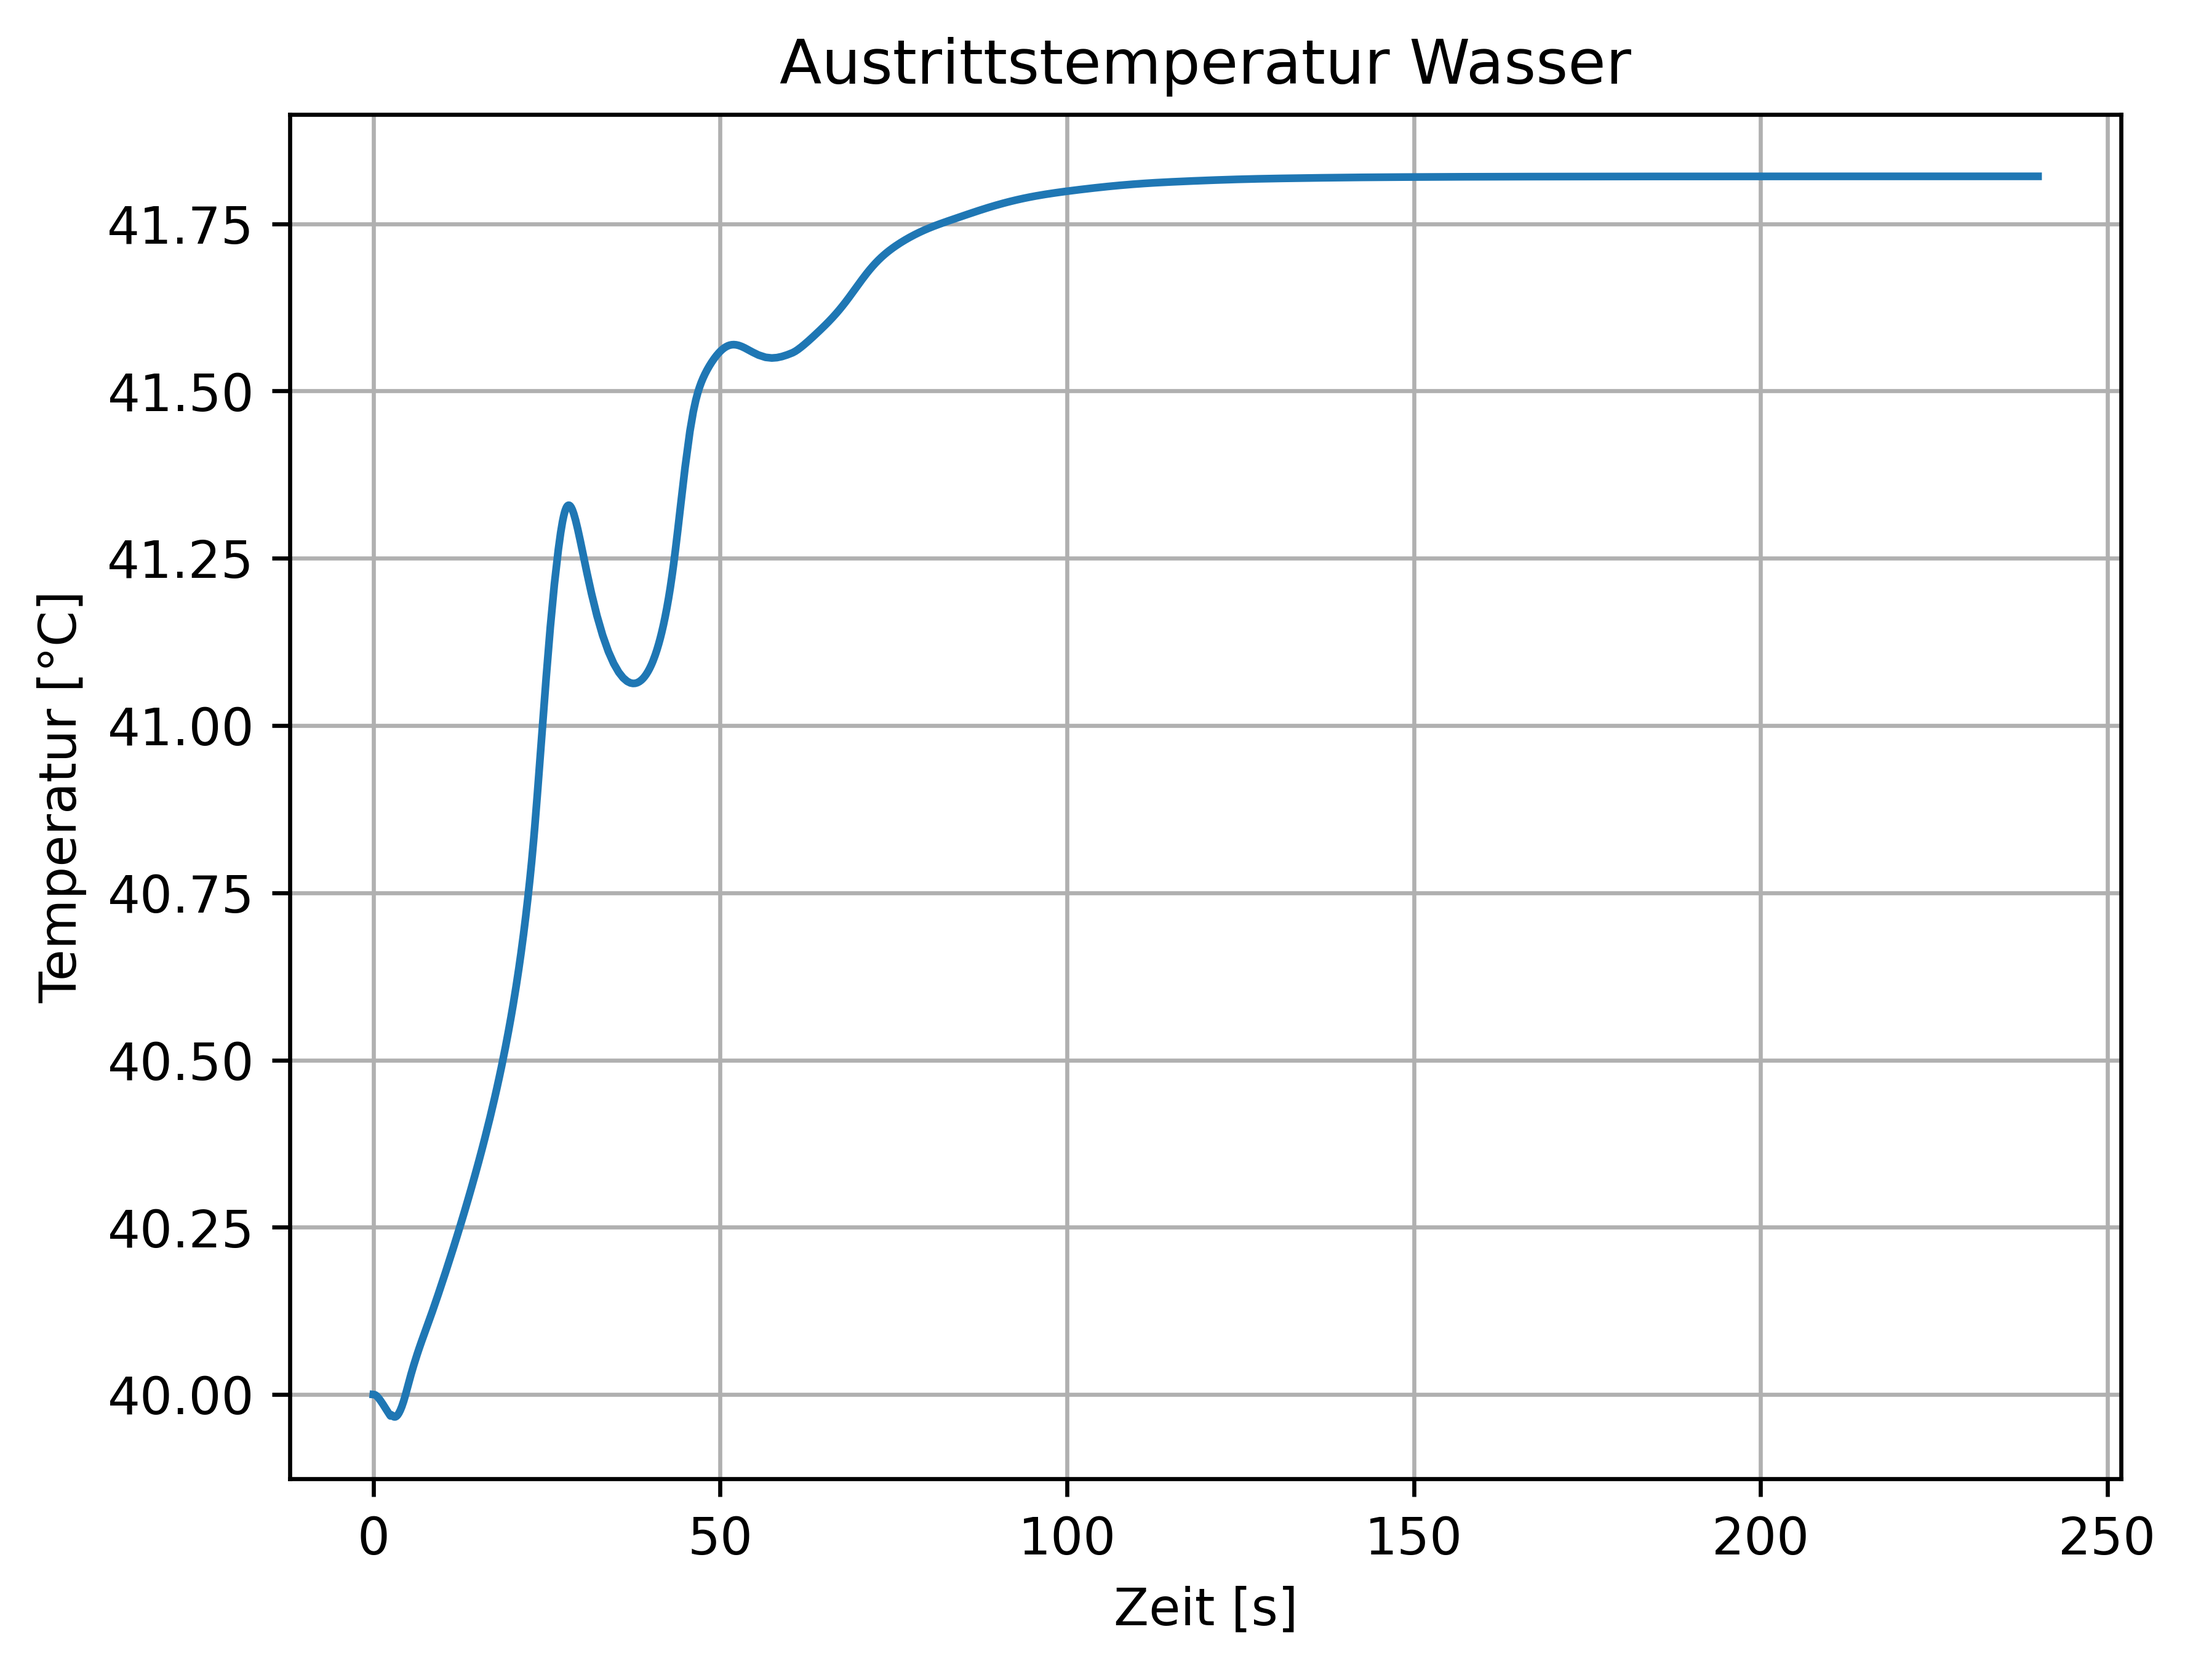
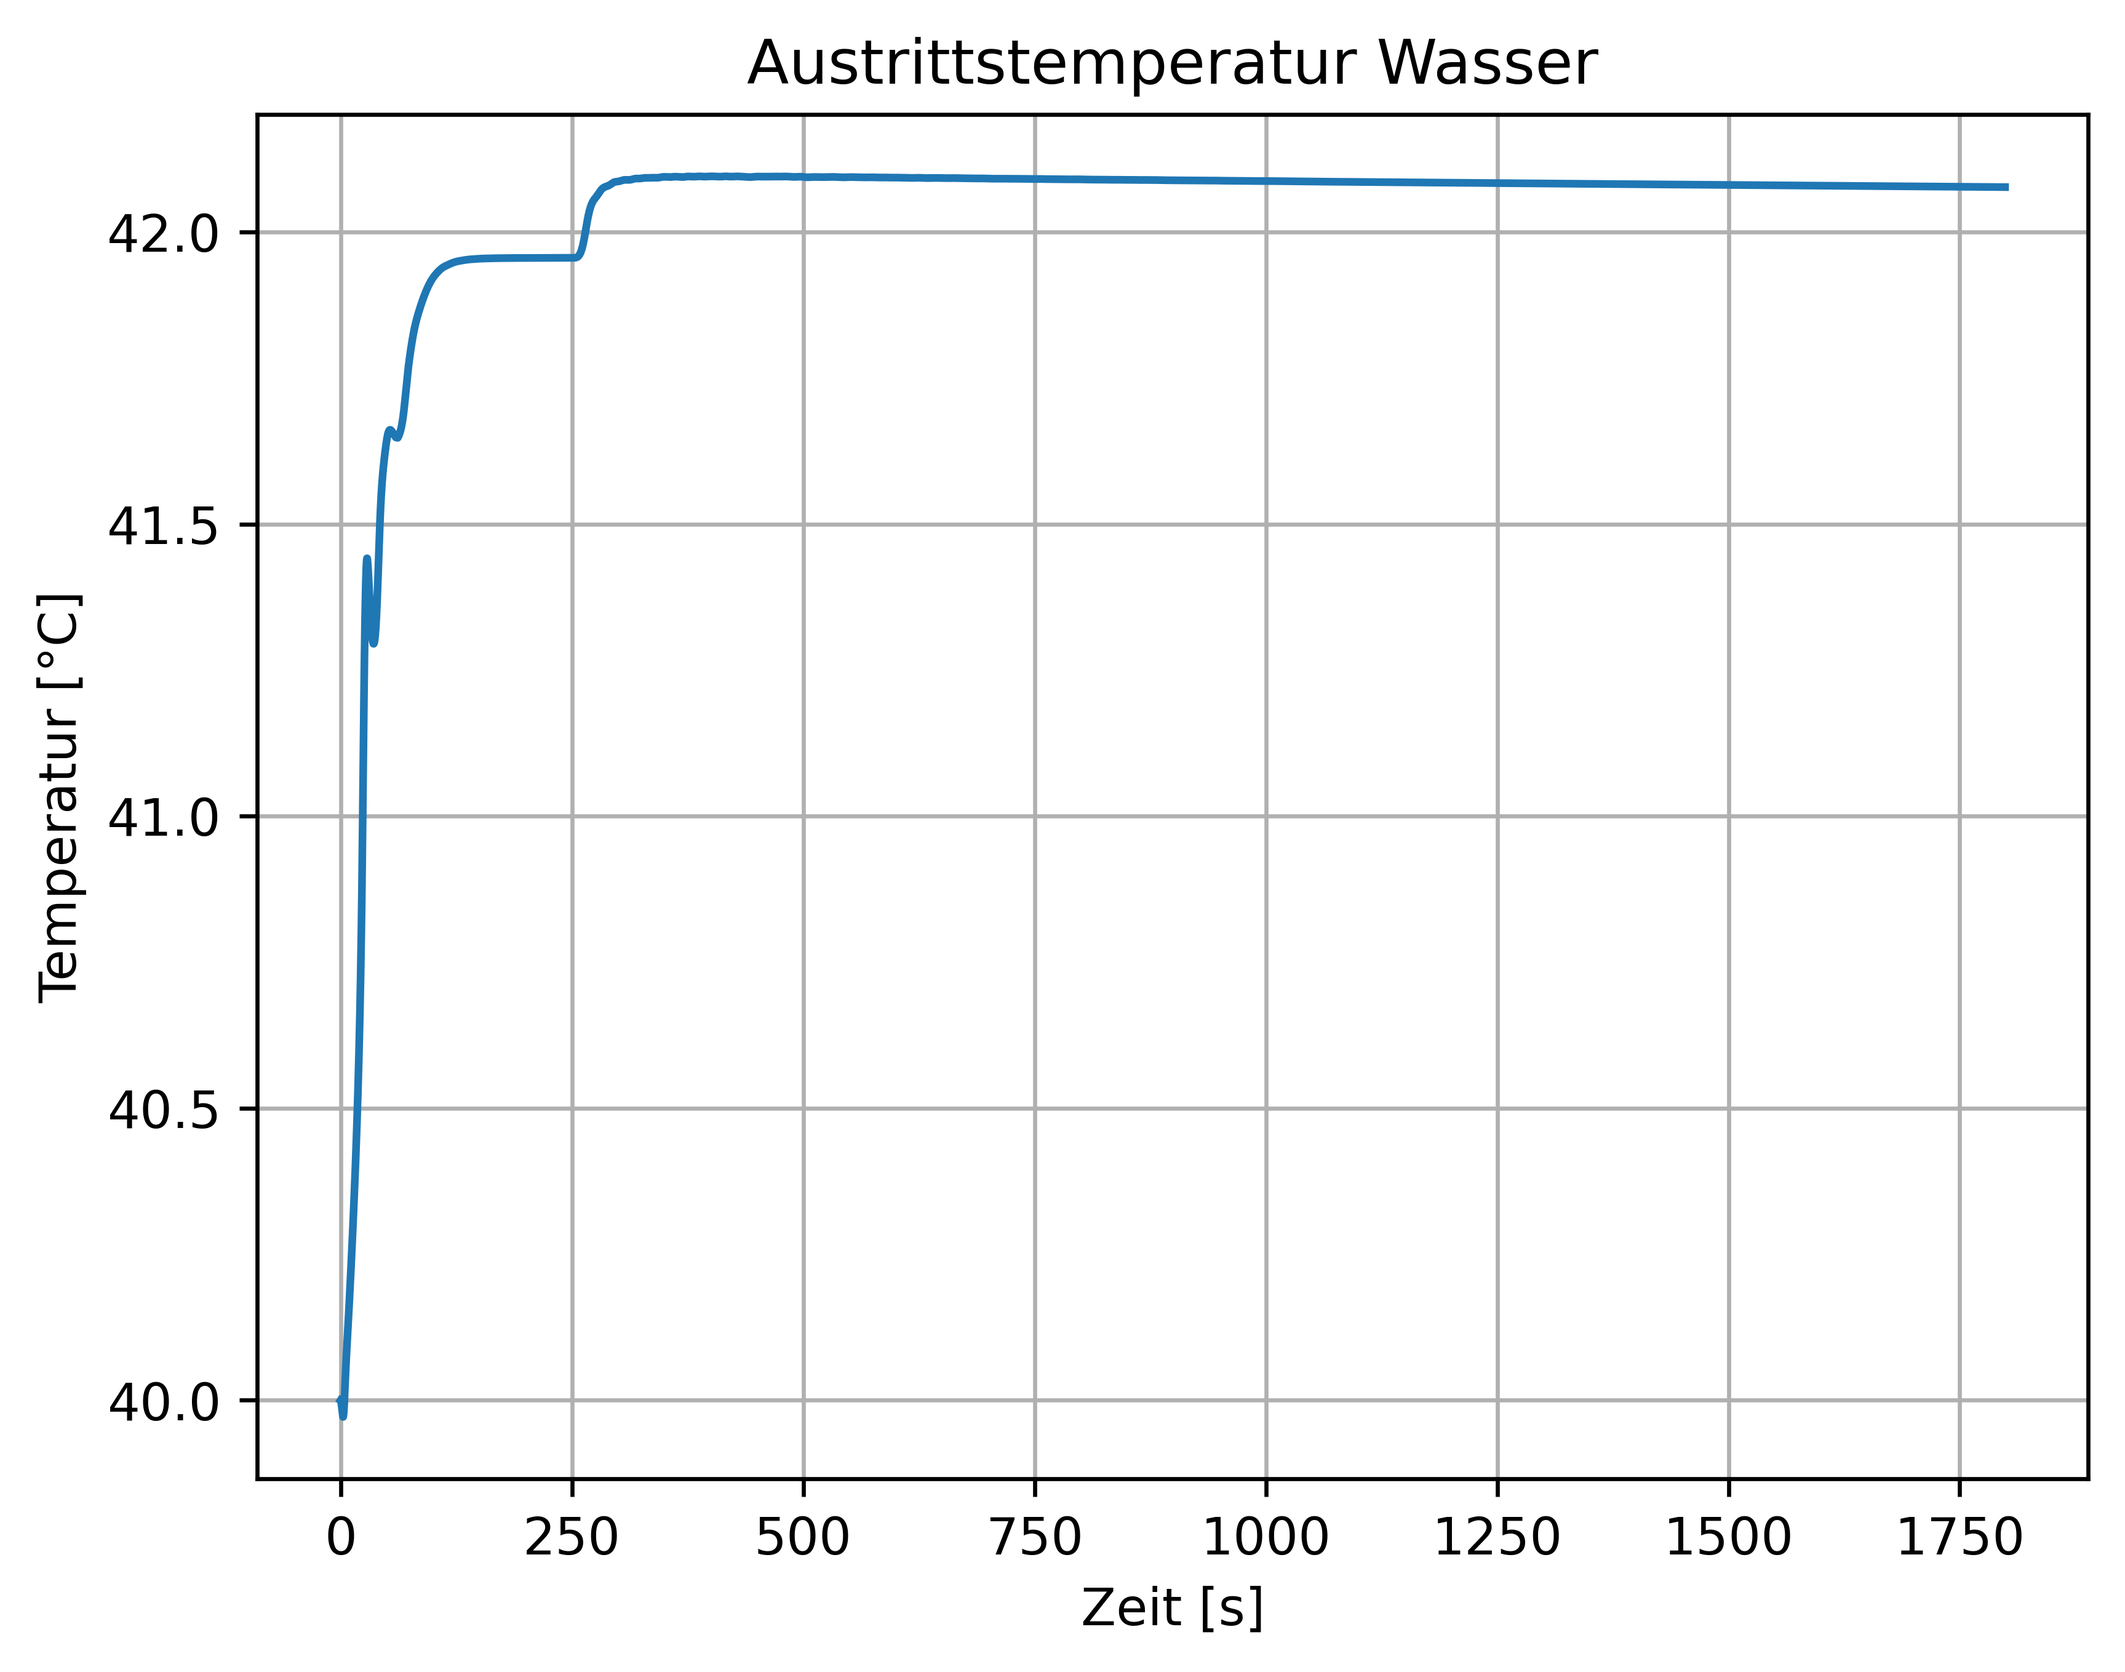
working

diff --git a/Framework/models/refrigerant_modell_V2.py b/Framework/models/refrigerant_modell_V2.py
@@ -162,7 +162,7 @@ class Refrigerant:
         # -----------------------------
         HP = self.HP
         if not HP.use_controller:
-            return 62.0
+            return 75.0
 
         # -----------------------------
         # controller settings
